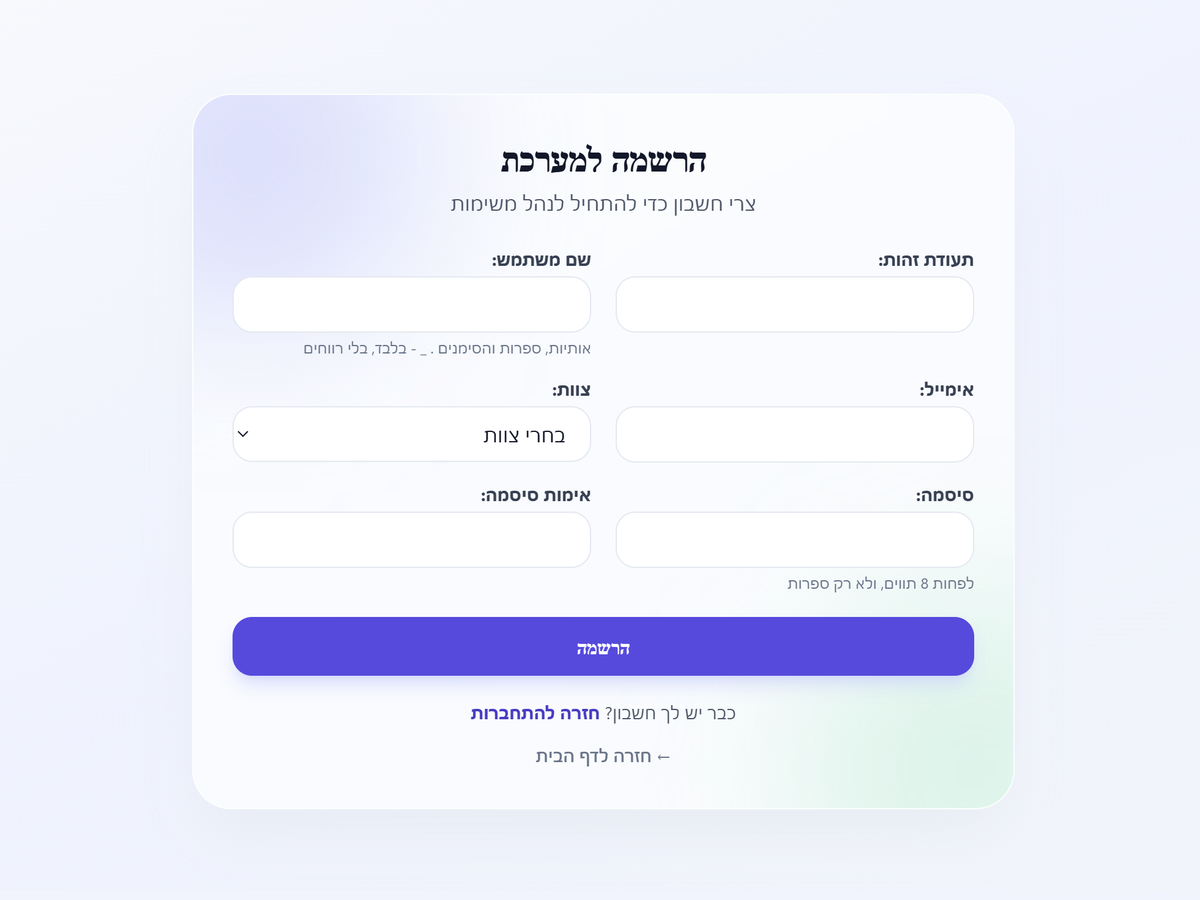
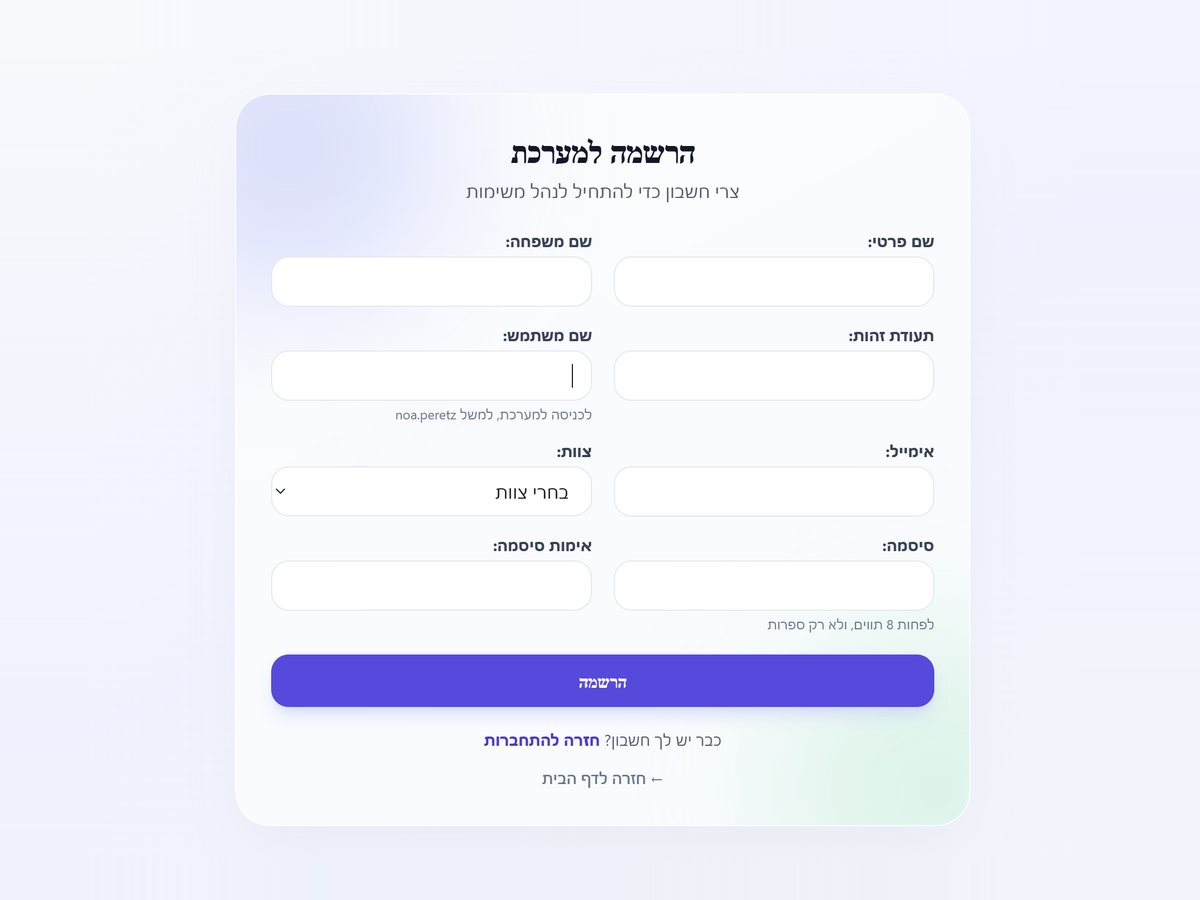
Add name fields to registration

diff --git a/myapp/forms.py b/myapp/forms.py
@@ -10,6 +10,8 @@ class UserCreationForm(BaseUserCreationForm):
     class Meta:
         model = User
         fields = (
+            "first_name",
+            "last_name",
             "tz",
             "username",
             "email",
@@ -18,6 +20,8 @@ class UserCreationForm(BaseUserCreationForm):
             "password2",
         )
         labels = {
+            "first_name": "שם פרטי",
+            "last_name": "שם משפחה",
             "tz": "תעודת זהות",
             "username": "שם משתמש",
             "email": "אימייל",
@@ -30,11 +34,13 @@ class UserCreationForm(BaseUserCreationForm):
     def __init__(self, *args, **kwargs):
         super().__init__(*args, **kwargs)
         self.fields["team"].required = True
+        self.fields["first_name"].required = True
+        self.fields["last_name"].required = True
         self.fields["team"].empty_label = "בחרי צוות"
         self.fields["password1"].label = "סיסמה"
         self.fields["password2"].label = "אימות סיסמה"
         # הסברים קצרים במקום הטקסטים הארוכים של Django
-        self.fields["username"].help_text = "אותיות, ספרות והסימנים . _ - בלבד, בלי רווחים"
+        self.fields["username"].help_text = "לכניסה למערכת, למשל noa.peretz"
         self.fields["password1"].help_text = "לפחות 8 תווים, ולא רק ספרות"
         self.fields["password2"].help_text = ""
 
@@ -69,6 +75,8 @@ class TaskForm(forms.ModelForm):
             User.objects.filter(team=team).exclude(role="admin").order_by("username")
         )
         self.fields["user"].required = False
+        # ברשימת העובדים מוצג השם המלא ולא שם המשתמש
+        self.fields["user"].label_from_instance = lambda u: u.get_full_name() or u.username
         # במשימה חדשה הסטטוס תמיד "חדש" — השדה מופיע רק בעריכה
         if not self.instance.pk:
             del self.fields["status"]
